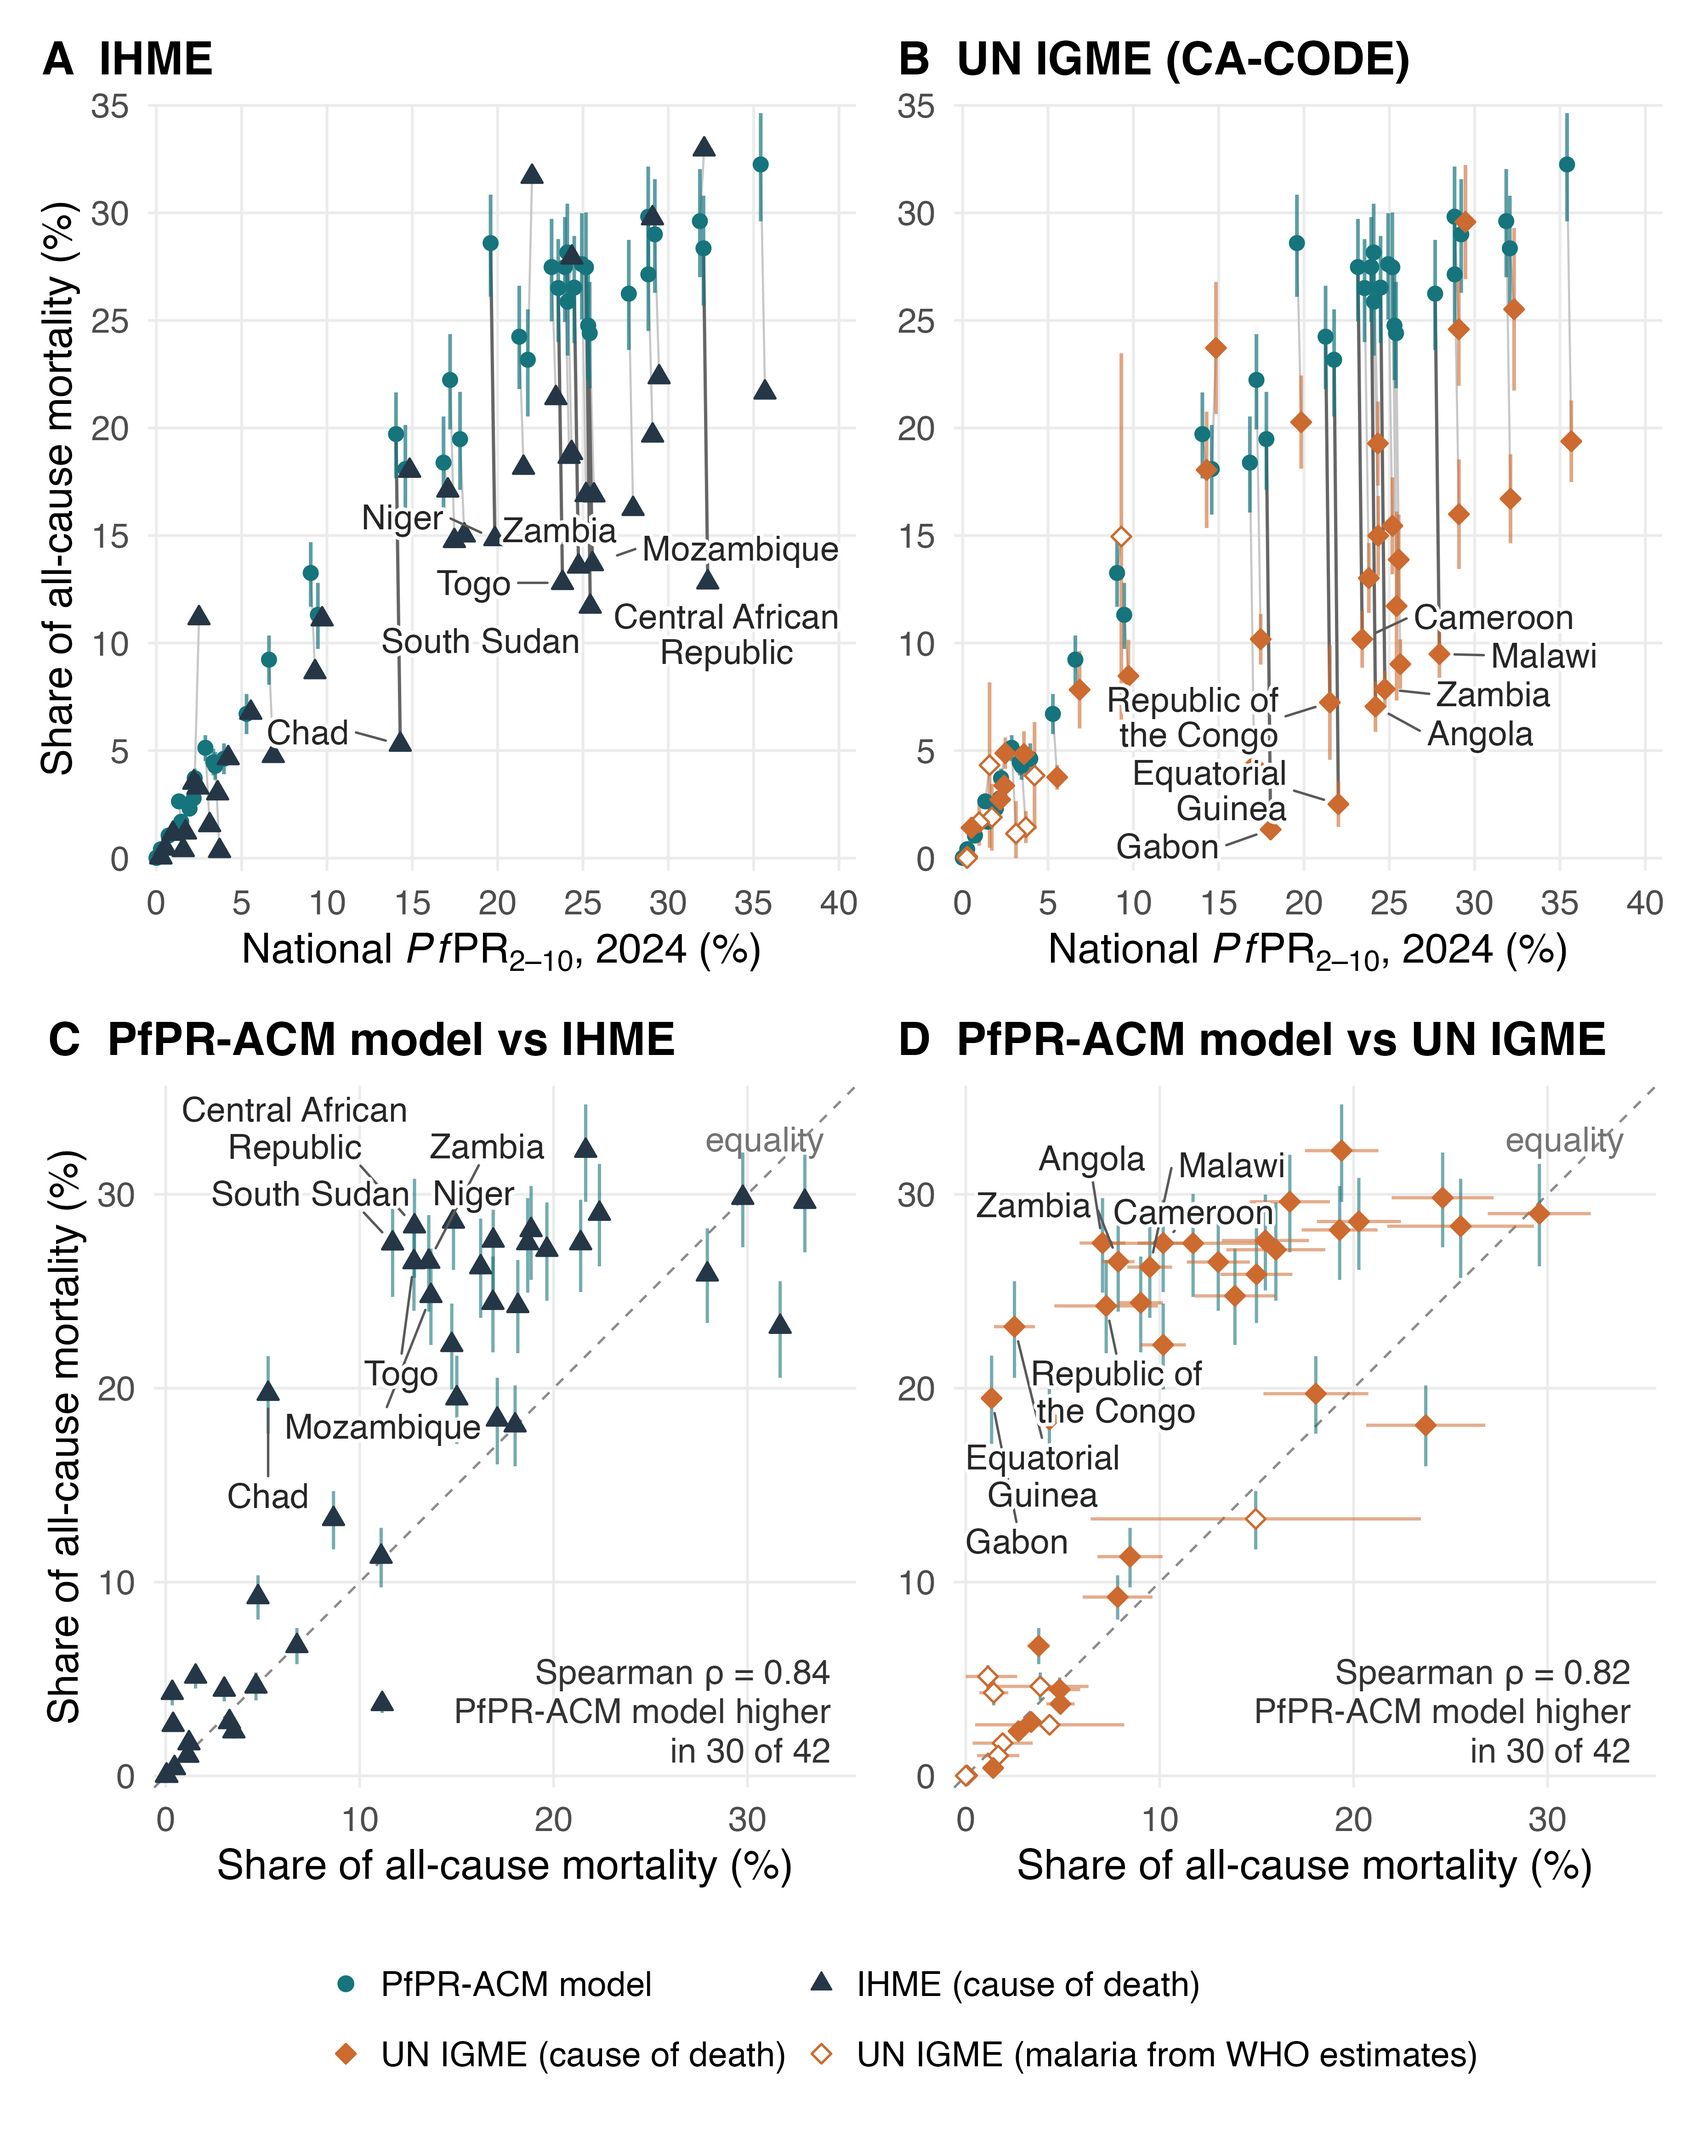
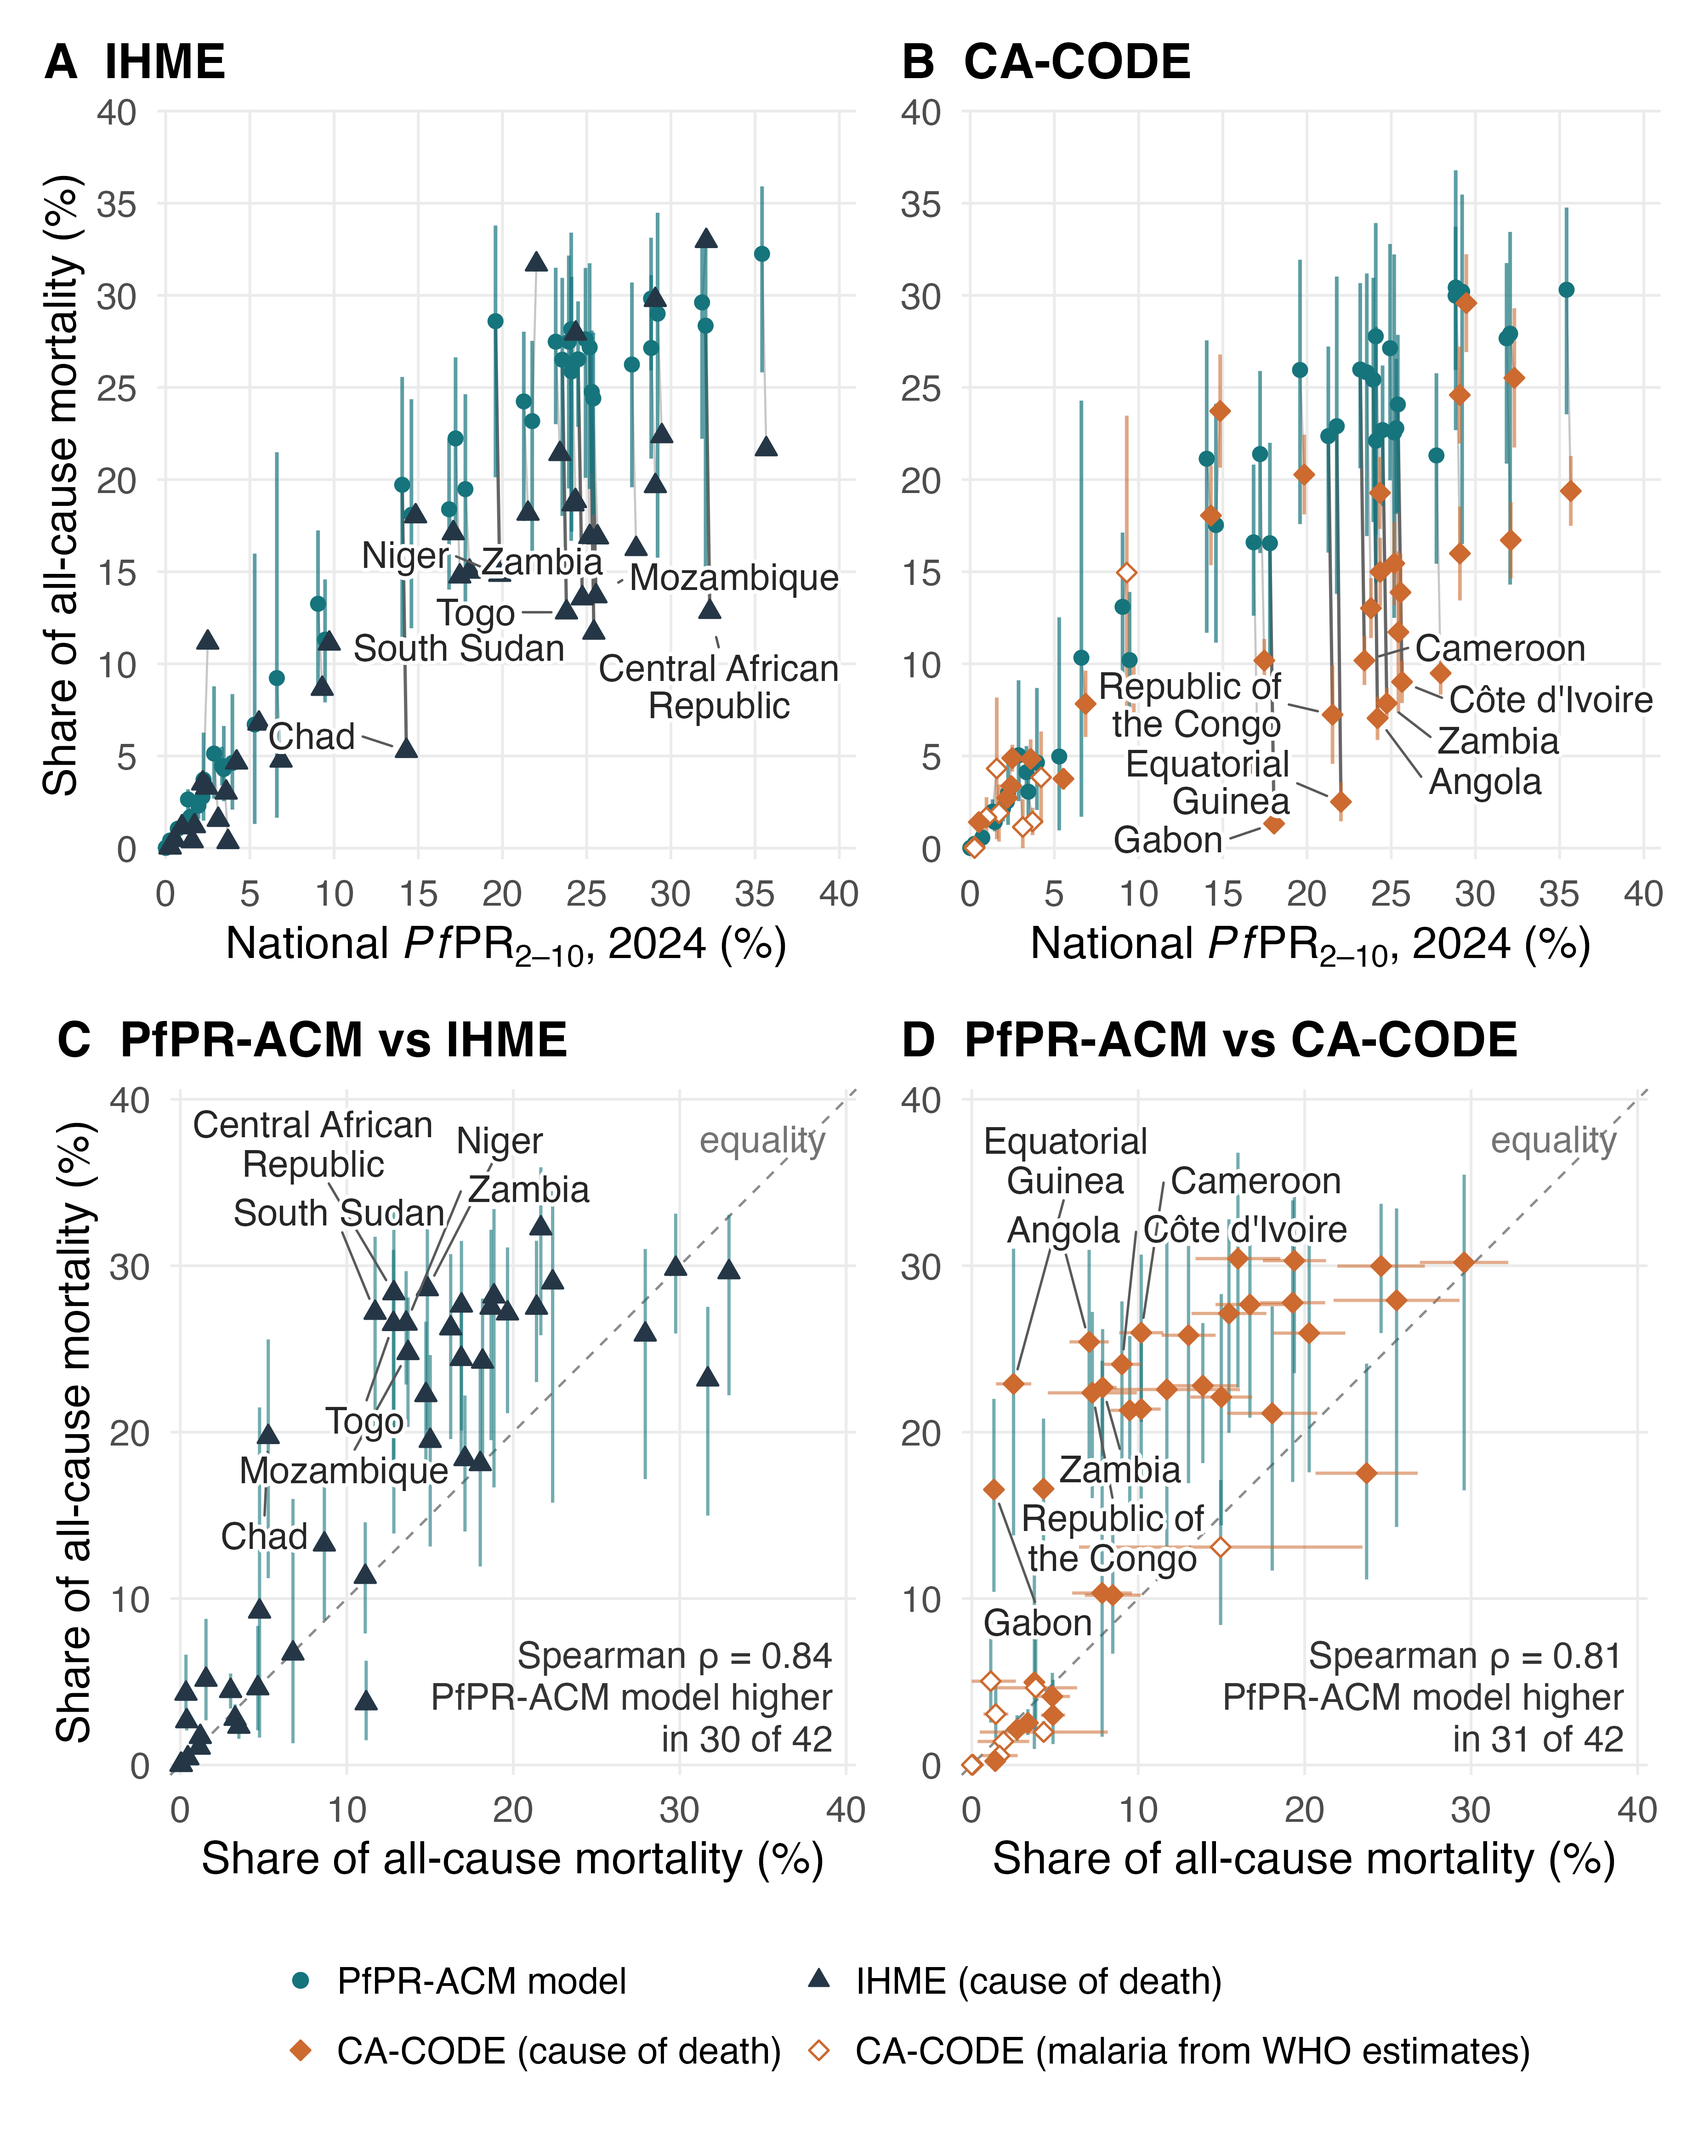
Malaria-share figure: set each source against the model on its own all-cause deaths
Panels B and D (CA-CODE) now use the UN IGME-based PfPR-ACM share, so the
figure agrees with the main text (model higher in 31 of 42 countries);
panels A and C (IHME) keep the IHME-based share. The model's share and its
95% uncertainty interval come from the paper's uncertainty draws in place
of intervals from the hazard ratios alone. CA-CODE is labelled as CA-CODE,
not UN IGME. Text is enlarged to meet the text-size rule at 0.9\linewidth,
and label placement no longer depends on a time limit.

diff --git a/paper/Supplementary Figures/sfig_malaria_share_vs_pfpr_caption.md b/paper/Supplementary Figures/sfig_malaria_share_vs_pfpr_caption.md
@@ -1,3 +1,3 @@
 # Supplementary figure: malaria's share of under-five deaths against PfPR and between sources, 2024
 
-Malaria's share of under-five deaths in 2024 against the Malaria Atlas Project's national *Pf*PR~2–10~ estimates for 42 sub-Saharan African countries. The share for the *Pf*PR–all-cause mortality (PfPR-ACM) model is attributable: the share of IHME all-cause under-five deaths that would not occur at *Pf*PR 0, from the seven age-band hazard ratios, so it includes deaths caused indirectly by malaria. The IHME and UN IGME shares count deaths assigned to malaria as the cause. In panels A and B each country appears at its *Pf*PR; grey lines join its PfPR-ACM model value (teal circles) to (A) IHME (navy triangles: IHME under-five malaria deaths divided by IHME all-cause under-five deaths) or (B) UN IGME (orange diamonds: the CA-CODE 2026 published malaria share of under-five deaths, with its published uncertainty bounds, interval level not stated in the download). Comparator points are shifted slightly right; darker lines mark the 7 countries with the largest absolute difference from the PfPR-ACM model value for each source, which are labelled in both of that source's panels. Panels C and D plot the PfPR-ACM model share against the IHME and UN IGME shares, one point per country, with the line of equality (dashed); vertical bars are the model's 95% intervals and horizontal bars in D the CA-CODE bounds. The model share is higher than IHME's in 30 of 42 countries and higher than UN IGME's in 30 (Spearman correlation between the model and IHME shares 0.84, UN IGME 0.82). Model intervals (95%) reflect only the age-band hazard-ratio uncertainty, drawn independently across bands, with *Pf*PR and IHME all-cause deaths held fixed, so they understate total uncertainty; IHME uncertainty intervals are not shown. The CA-CODE share is computed on CA-CODE's own total of cause-specific deaths, which can differ from the UN IGME all-cause count (DR Congo: 428,472 against 385,039 deaths). Hollow diamonds mark countries flagged in CA-CODE's published input file for WHO malaria estimates rather than its verbal-autopsy model (Madagascar, Ethiopia, Comoros, Somalia, Djibouti, Eritrea, Zimbabwe, Eswatini, Botswana). Across countries the PfPR-ACM model share rises with *Pf*PR almost by construction; Spearman correlation with *Pf*PR is 0.83 for IHME and 0.77 for UN IGME (0.67 excluding the WHO-estimate countries). Unweighted median share across the 42 countries: PfPR-ACM model 21.0%, IHME 13.2%, UN IGME 8.2%. Lesotho has no MAP national estimate, Cabo Verde and São Tomé and Príncipe are outside the 42-country burden set, and Sudan and South Africa are not in the IHME export, so all five are excluded from every panel.
+Malaria's share of under-five deaths in 2024 in 42 sub-Saharan African countries: the malaria-attributable share from the PfPR-ACM model compared with the share of deaths assigned to malaria by IHME and by CA-CODE. The model's share is the share of all-cause under-five deaths that would not occur at *Pf*PR 0, so it includes deaths caused indirectly by malaria; it is based on IHME all-cause deaths in panels A and C and on UN IGME all-cause deaths in panels B and D. A, B: each country is plotted at its national *Pf*PR~2–10~ (Malaria Atlas Project); a grey line joins its model value (teal circles) to the IHME value (A, navy triangles: IHME under-five malaria deaths divided by IHME all-cause under-five deaths) or the CA-CODE value (B, orange diamonds: CA-CODE's published malaria share of under-five deaths). Comparator points are shifted slightly to the right. C, D: the model's share against the IHME share (C) and the CA-CODE share (D), one point per country; the dashed line shows equality. Vertical bars are the model's 95% uncertainty intervals; orange bars are CA-CODE's published bounds (interval level not stated in the download); IHME intervals are not shown. For each source the 7 countries with the largest absolute difference from the model are named, with darker joining lines in A and B. Hollow diamonds mark countries flagged in CA-CODE's published input file for WHO malaria estimates in place of its verbal-autopsy model (Madagascar, Ethiopia, Comoros, Somalia, Djibouti, Eritrea, Zimbabwe, Eswatini, Botswana). The model's share is higher than IHME's in 30 of 42 countries and higher than CA-CODE's in 31 (Spearman correlation 0.84 and 0.81). Median share across the 42 countries: model 21.0% (IHME-based) and 21.2% (UN IGME-based), IHME 13.2%, CA-CODE 8.2%. Spearman correlation with *Pf*PR: IHME 0.83, CA-CODE 0.77 (0.67 without the WHO-estimate countries). In a crisis year the model share is the crisis-free value (South Sudan, IHME-based). The CA-CODE share is computed on CA-CODE's own total of cause-specific deaths, which can differ from the UN IGME all-cause count (DR Congo: 428,472 against 385,039 deaths). Lesotho has no MAP national estimate, Cabo Verde and São Tomé and Príncipe are outside the 42-country burden set, and Sudan and South Africa are not in the IHME export, so all five are excluded from every panel.
